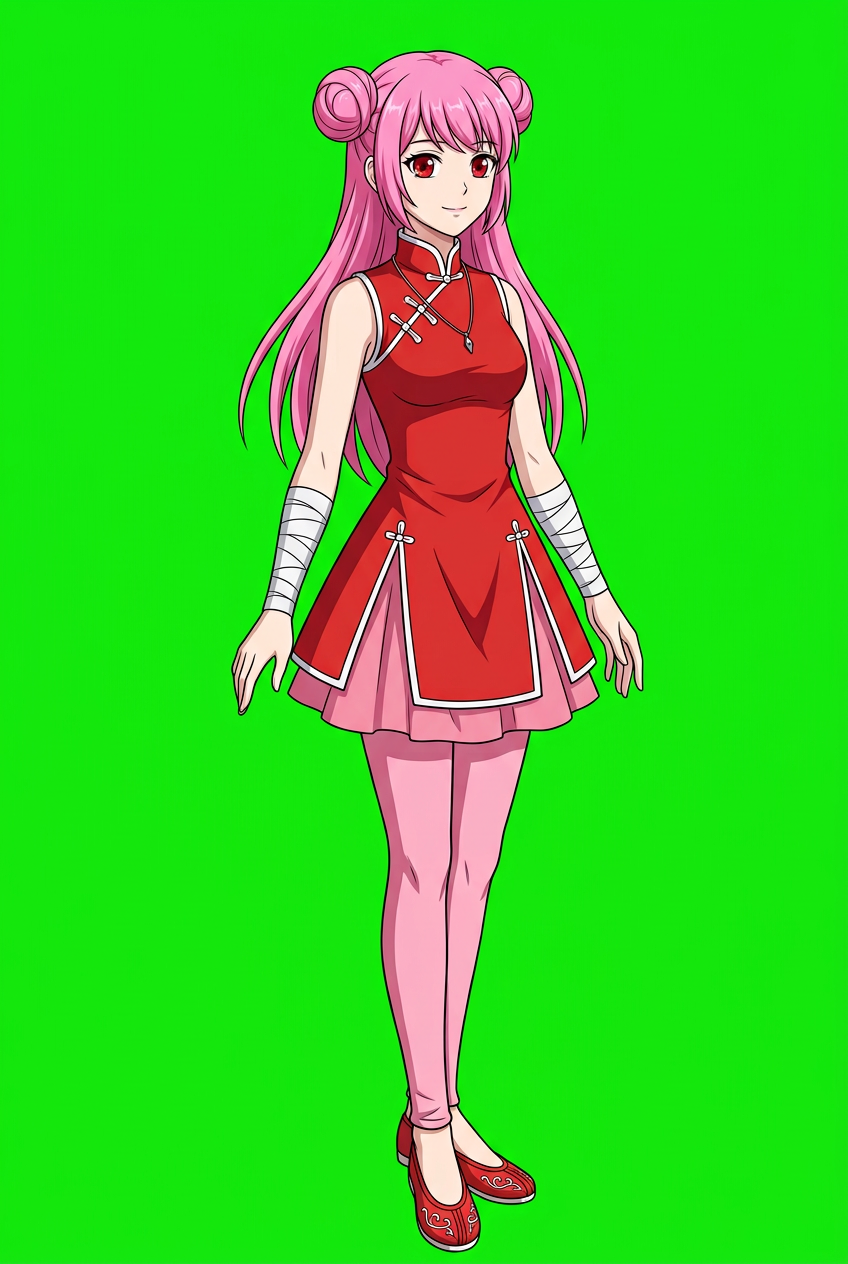
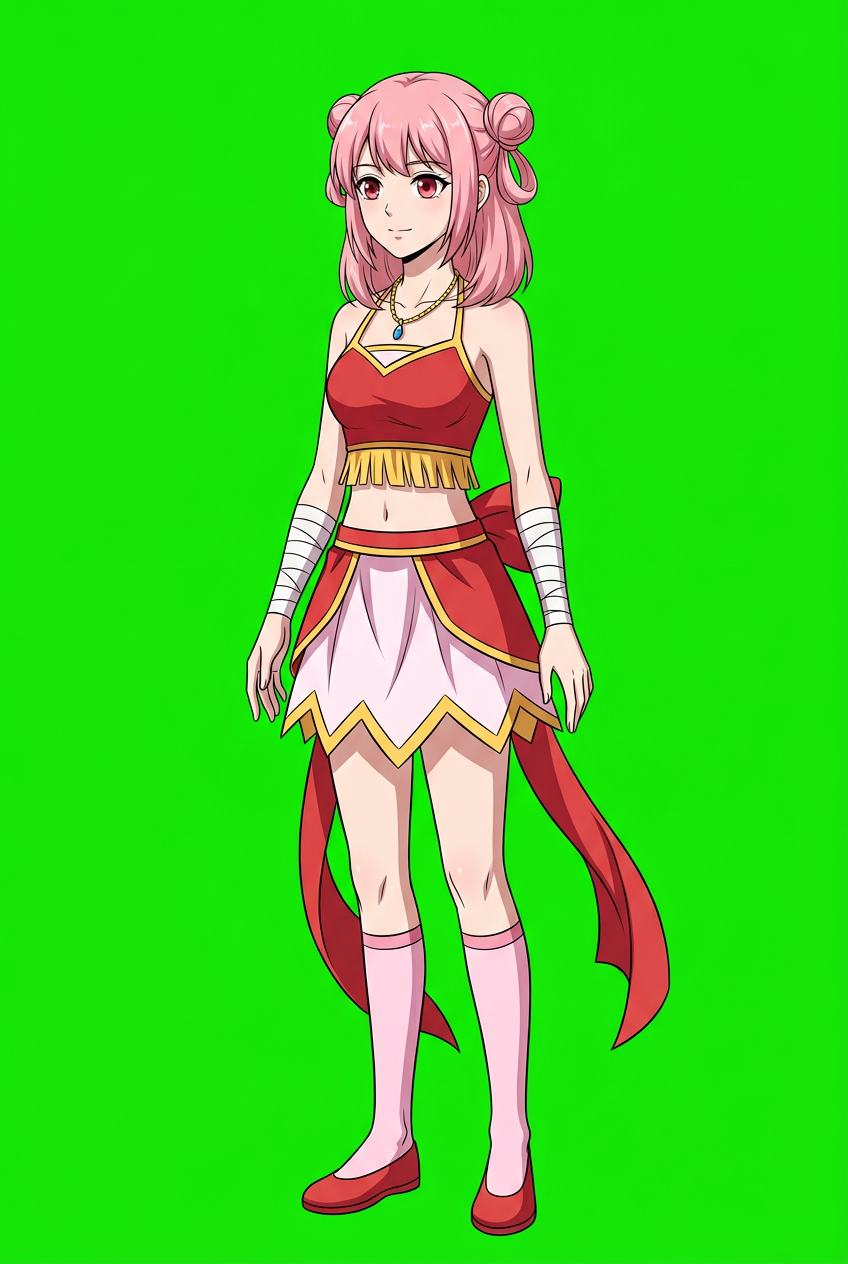
漫画复核: 萧媚重画(12话); 若琳/萧玉核对一致

Changed region(s): [[0.2759, 0.0309, 0.7972, 1.0]]

diff --git a/dev/design/漫画复核进度.md b/dev/design/漫画复核进度.md
@@ -19,4 +19,6 @@
 | 萧宁 | xiaoning | 11 | ❌→已重画（棕高马尾、绿高领马甲） |
 | 加列毕 | jialiebi | 16（fandom 确认） | ❌→已重画（卷发单片眼镜翘胡、红条纹马甲金斜挎带、白毛领） |
 | 柳席 | liuxi | 16 | 🔧→已重画（补绿色领口内衬、金耳环） |
-| 萧玉 | xiaoyu | 11-12 出现（棕发白蓝衣） | 待核对 |
+| 萧玉 | xiaoyu | 19-03/05（迦南招生） | ✅ 一致（棕色长马尾、迦南白蓝学院外套、黑领结、蓝长靴） |
+| 若琳 | ruolin | 19-16/18/21 | ✅ 一致（蓝长发、眼镜、额饰、白蓝导师长袍+蓝长裙） |
+| 萧媚 | xiaomei | 12-15/17/18（成人礼试炼） | ❌→已重画（原为长发旗袍；漫画为及肩粉发+后侧小双髻、红色吊颈短上衣+金项链、白粉锯齿短裙、红飘带、前臂绷带） |
